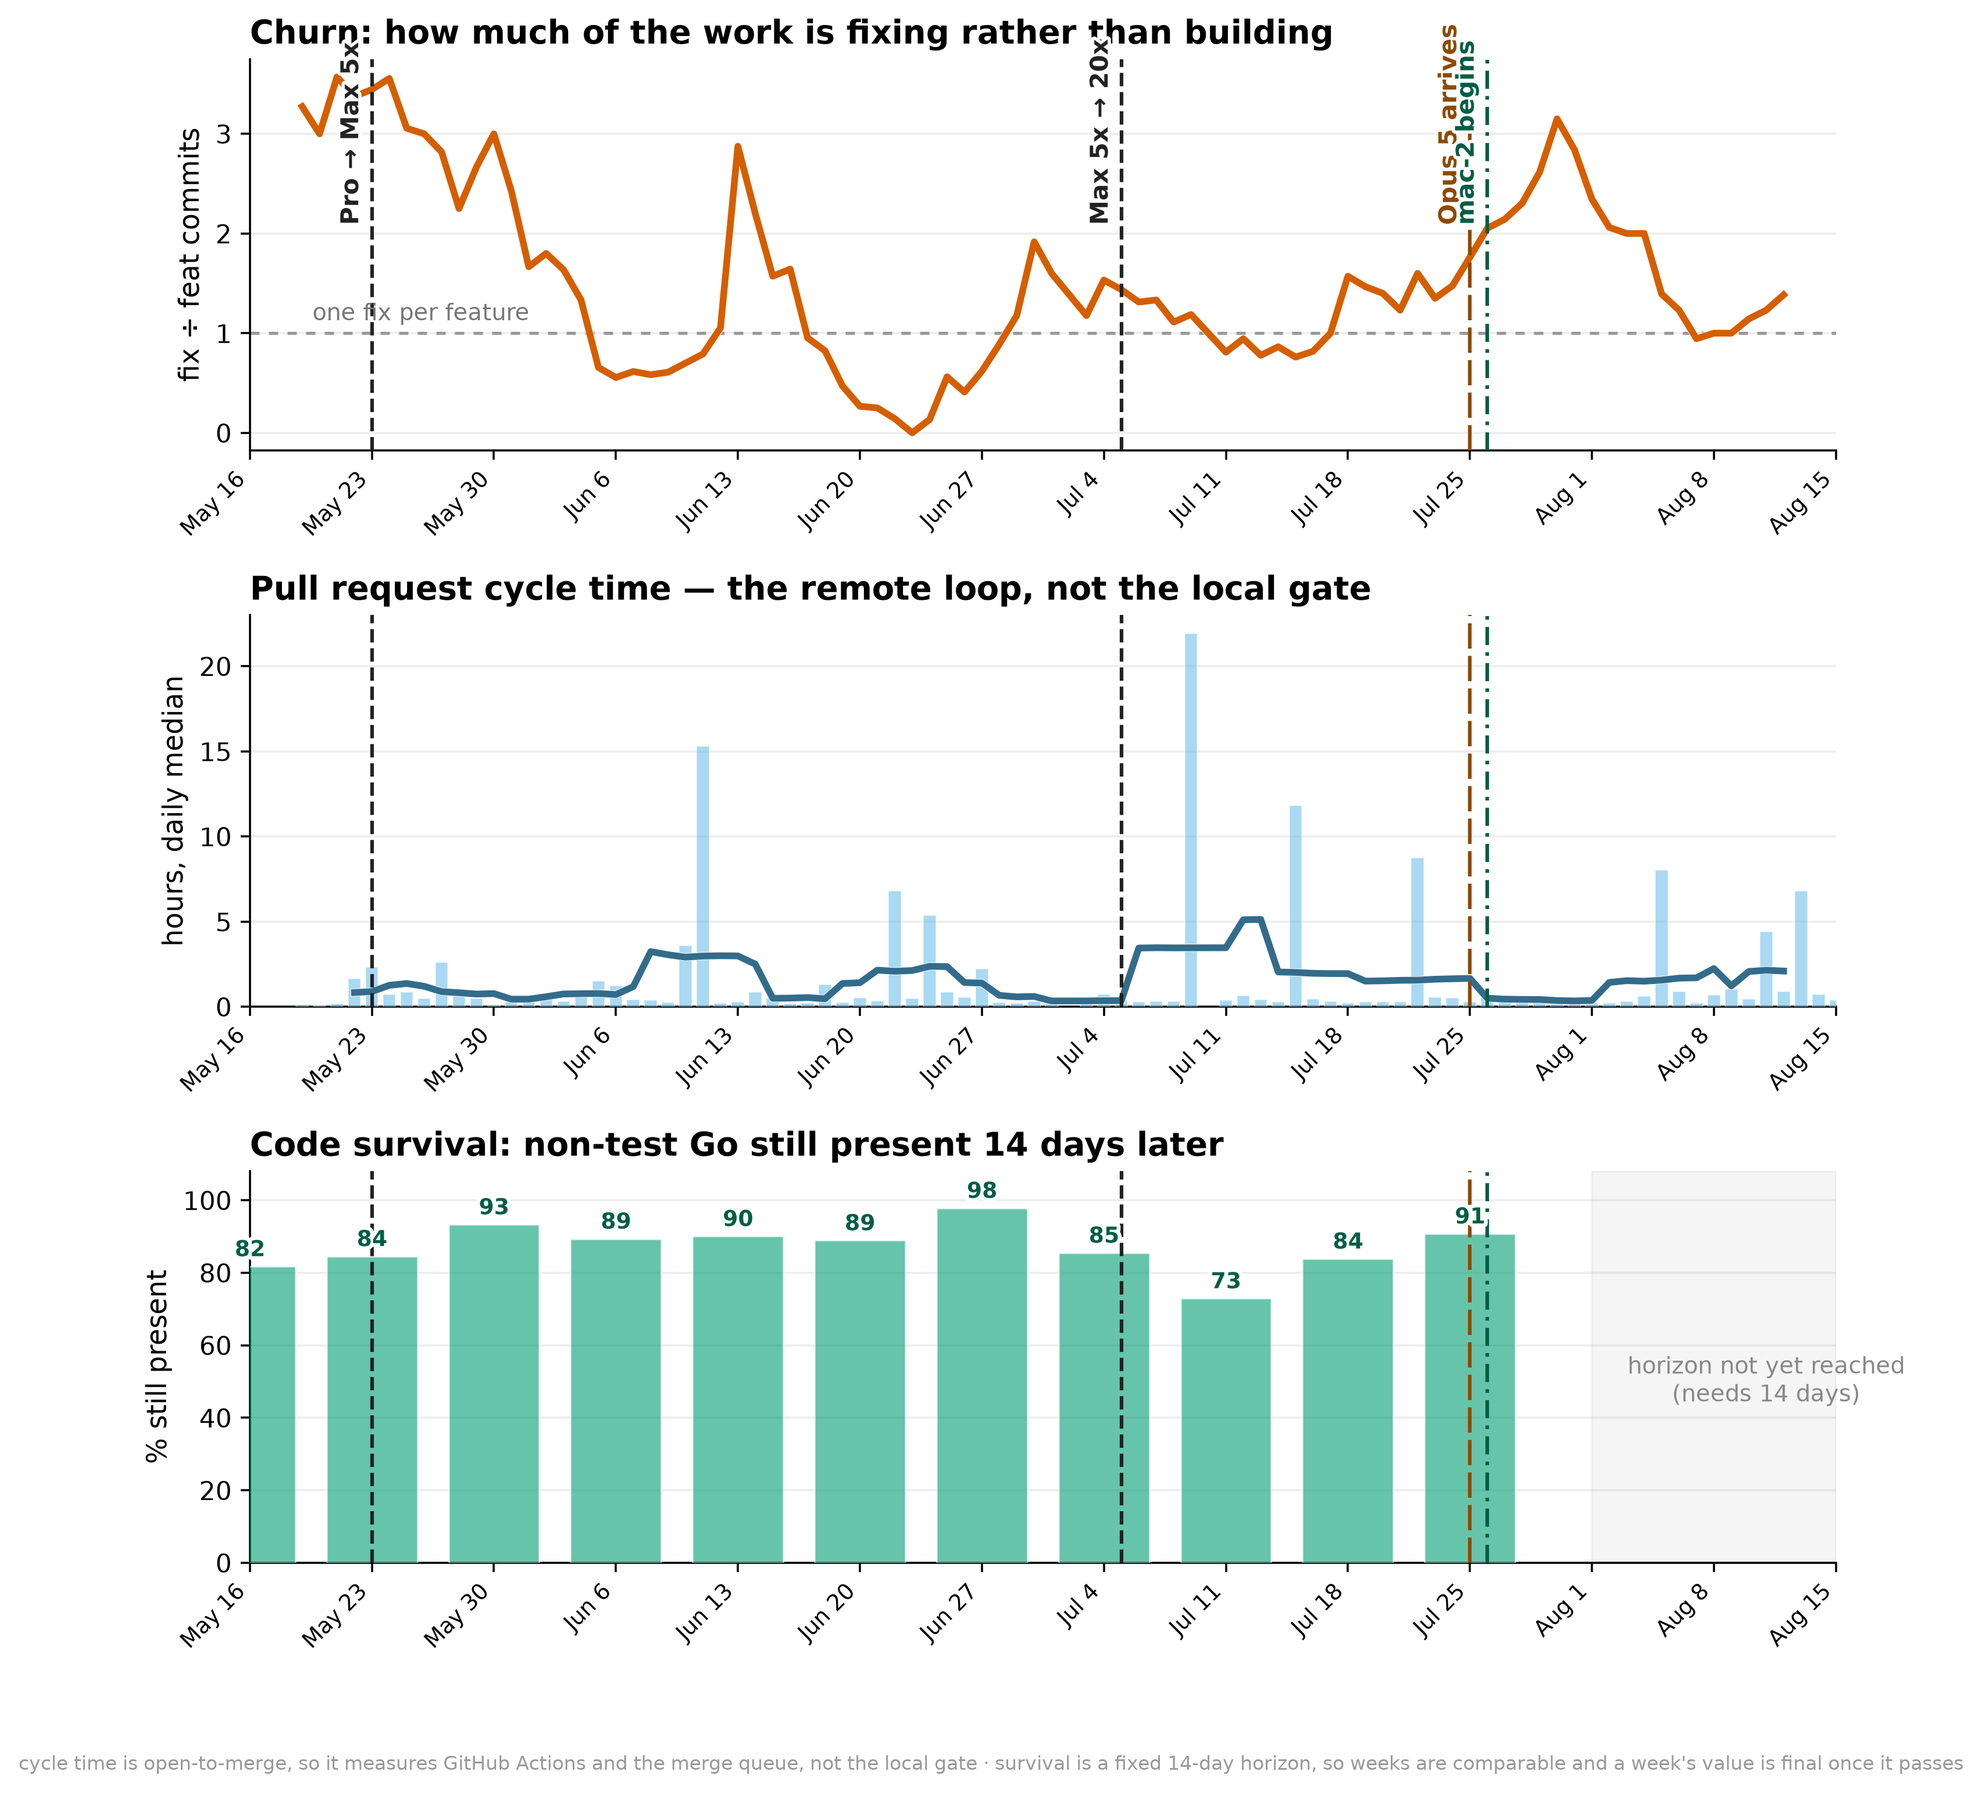
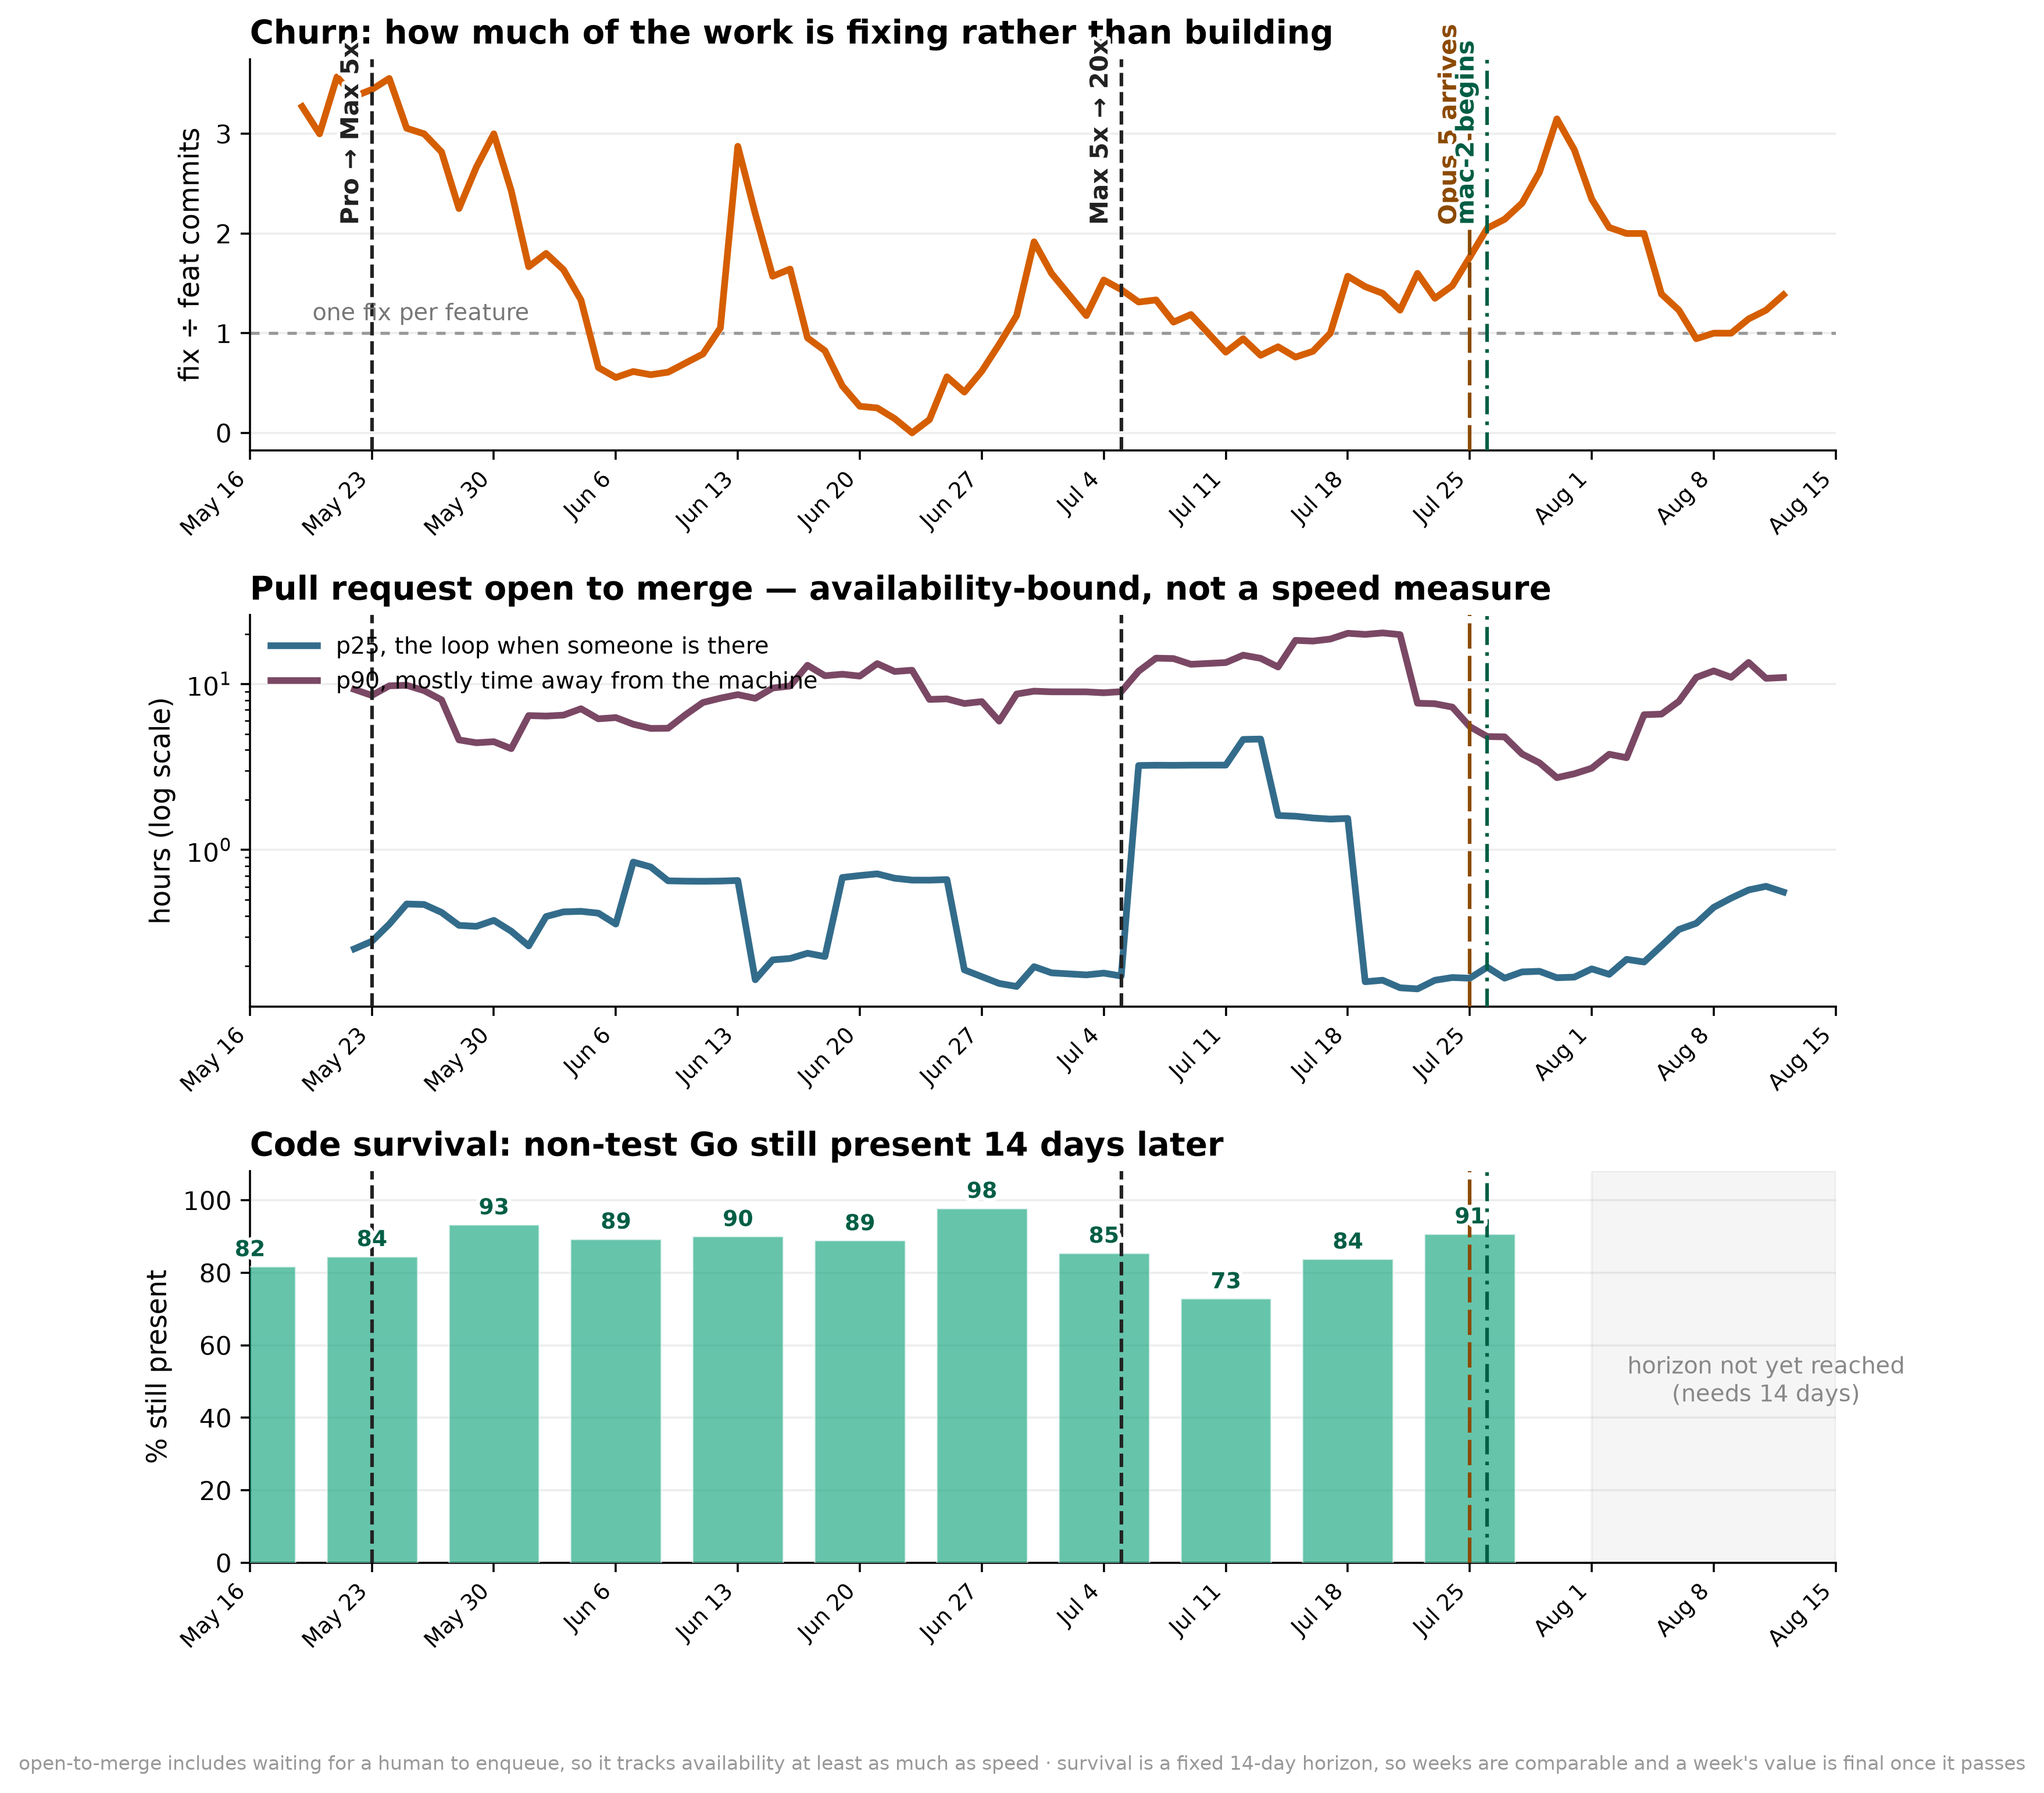
fix(metrics): draw PR cycle time as percentiles, since the median blends two things
Open-to-merge is availability-bound. Merging here needs a human to enqueue, so a
PR opened while nobody is at the machine waits exactly as long as that lasts, and
the p99 runs 33.7h, 90.0h, 23.4h across the eras: multi-day waits that record
being away rather than anything slow.

The median hid that and misled with it. It rose 0.35h to 0.53h across the
handover, which this chart called an unexplained slowdown, while p10 held flat at
0.09h and both p90 and p99 fell. The distribution tightened rather than slowed;
the median moved because the share merged inside 30 minutes fell from 58% to 48%.

Now drawn as p25 against p90 on a log axis, with no median at all. The low
percentile is the part availability cannot stretch and stands in for the loop
itself; the high one is mostly a record of being elsewhere. Separating them also
surfaces an early-July stretch where even the fast quartile ran 3-5h, which a
single median line had averaged away.

diff --git a/claude-usage/make_charts.py b/claude-usage/make_charts.py
@@ -1103,16 +1103,29 @@ def chart_velocity_quality():
             except (ValueError, KeyError):
                 continue
         pd = sorted(byday)
-        med = [sorted(byday[d])[len(byday[d]) // 2] for d in pd]
         pxs = [dparse(d) for d in pd]
-        b2.bar(pxs, med, width=0.72, color=OI["skyblue"], alpha=0.5, edgecolor="white",
-               linewidth=0.4, zorder=3)
-        tr = rolling_mean(med)
-        seg = [(x, v) for x, v in zip(pxs, tr) if v is not None]
-        b2.plot([x for x, _ in seg], [v for _, v in seg], color=darken(OI["skyblue"]),
-                lw=2.6, zorder=5, path_effects=HALO)
-        b2.set_ylabel("hours, daily median", fontsize=10.5)
-        b2.set_title("Pull request cycle time — the remote loop, not the local gate",
+
+        def pct(vals, q):
+            v = sorted(vals)
+            return v[min(int(len(v) * q), len(v) - 1)]
+
+        # Two percentiles rather than a median, because they answer different
+        # questions and the median blends them. Merging needs a human to enqueue,
+        # so a PR opened while nobody is at the machine waits however long that
+        # lasts: the p99 reaches 34h and 90h in the earlier eras. The low
+        # percentile is the part availability cannot stretch, so it stands in for
+        # loop speed; the high one is mostly a record of being away.
+        for q, col, lab in ((0.25, OI["skyblue"], "p25, the loop when someone is there"),
+                            (0.90, OI["purple"], "p90, mostly time away from the machine")):
+            series = [pct(byday[d], q) for d in pd]
+            tr = rolling_mean(series)
+            seg = [(x, v) for x, v in zip(pxs, tr) if v is not None]
+            b2.plot([x for x, _ in seg], [v for _, v in seg], color=darken(col),
+                    lw=2.6, zorder=5, path_effects=HALO, label=lab)
+        b2.set_yscale("log")
+        b2.legend(loc="upper left", fontsize=9, frameon=False)
+        b2.set_ylabel("hours (log scale)", fontsize=10.5)
+        b2.set_title("Pull request open to merge — availability-bound, not a speed measure",
                      fontsize=12.5, fontweight="bold", loc="left")
 
     # --- durability: does a week's code outlive its first fortnight ---
@@ -1157,9 +1170,9 @@ def chart_velocity_quality():
     stagger_labels(fig, [t for t in labels if t is not None], 0.13)
 
     fig.text(0.012, 0.004,
-             "cycle time is open-to-merge, so it measures GitHub Actions and the merge queue, "
-             "not the local gate · survival is a fixed 14-day horizon, so weeks are comparable "
-             "and a week's value is final once it passes",
+             "open-to-merge includes waiting for a human to enqueue, so it tracks availability "
+             "at least as much as speed · survival is a fixed 14-day horizon, so weeks are "
+             "comparable and a week's value is final once it passes",
              fontsize=7.5, color="#999")
     save(fig, "velocity_quality")
 
